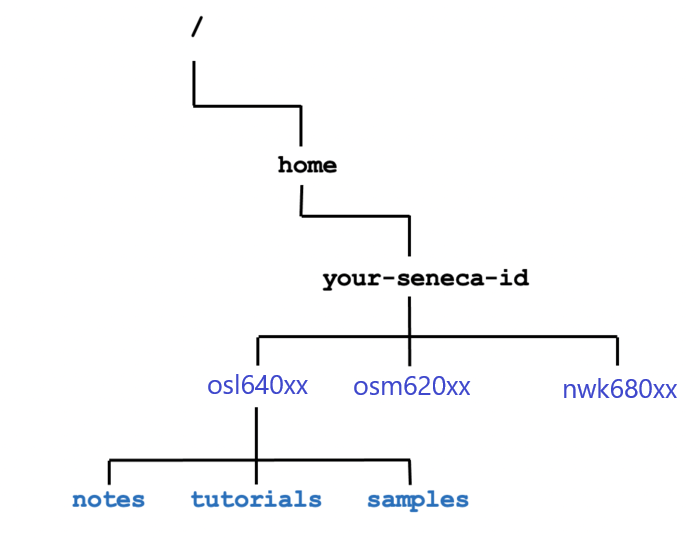
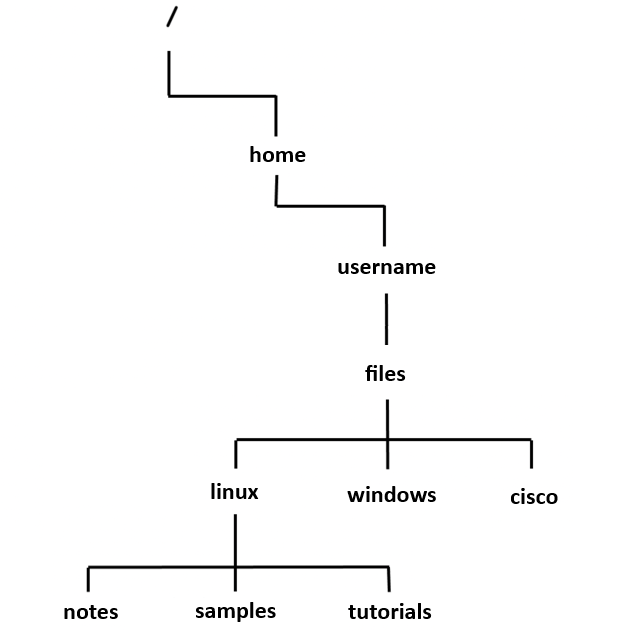
Lab 2: Changed directory structure. Instructions and check scripts need to be updated still.

diff --git a/lab2.md b/lab2.md
@@ -147,19 +147,19 @@ You will be creating the following **directory structure** within your home dire
 
 ![Directory Structure 3](/img/1_-_700px-Directory-structure-3.png)
 
-**Tree Diagram** of Directory Structure to Create in your **Home** Directory (displayed in blue text).
+**Tree Diagram** of Directory Structure to Create in your **Home** Directory.
 
 **Perform the Following Steps:**
 
-**NOTE:** For several of the following commands, you will be using **your Seneca username** to replace the text:"**your-seneca-id**" in a pathname.
+**NOTE:** For several of the following commands, you will be using **your username** to replace the text:"**yourusername**" in a pathname.
 
-For example, if your Seneca user ID was **mkhan** then you would display the pathname _/home/your-seneca-id_ as: **/home/mkhan**
+For example, if your username was **mkhan** then you would display the pathname _/home/yourusername_ as: **/home/mkhan**
 
 1. Confirm that you are logged into your Ubuntu virtual machine and have the **Terminal** open.
 2. Issue the following Linux command:
 
 ```bash
-mkdir /home/your-seneca-id/osl640xx
+mkdir /home/yourusername/files
 ```
 
 - (remember: use your Seneca username instead of "your-seneca-id")
@@ -168,7 +168,7 @@ mkdir /home/your-seneca-id/osl640xx
 4. Issue the following Linux command:
 
 ```bash
-ls /home/your-seneca-id/osl640xx
+ls /home/yourusername/files
 ```
 
 - There are no contents that are contained in this newly-created directory; therefore, no contents appear. A useful option **-d** can be used to confirm that the actual directory has been created as opposed to viewing the contents of the directory.
@@ -176,7 +176,7 @@ ls /home/your-seneca-id/osl640xx
 5. Issue the following Linux command:
 
 ```bash
-ls -d /home/your-seneca-id/osl640xx
+ls -d /home/yourusername/files
 ```
 
 - You should now see just the directory listed. You can also combine the **-d** and **-l** options to provide more detail regarding the newly-created directory.
@@ -184,28 +184,25 @@ ls -d /home/your-seneca-id/osl640xx
 6. Issue the following Linux command:
 
 ```bash
-ls -d -l /home/your-seneca-id/osl640xx
+ls -d -l /home/yourusername/files
 ```
 
-- How can you confirm from the output of this command that the file osl640xx is a directory?
+- How can you confirm from the output of this command that the file linux is a directory?
 
 7. Issue the following Linux command:
 
 ```bash
-ls -ld /home/your-seneca-id/osl640xx
+ls -ld /home/yourusername/files
 ```
 
 - Is the output from this command the same was the output from the previous command?
 - If so, what does this say about how to use multiple options for Linux commands?
 
-![Create Confirm](/img/2-create-confirm.png)
 
-- **Creating** and **Confirming** the Creation of a Directory.
-
-8. Issue the following Linux command to create the **osm620xx** and **nwk680xx** directories:
+8. Issue the following Linux command to create the **linux**, **windows** and **cisco** directories:
 
 ```bash
-mkdir /home/your-seneca-id/osm620xx /home/your-seneca-id/nwk680xx
+mkdir /home/yourusername/files/linux /home/yourusername/files/windows /home/yourusername/files/cisco
 ```
 
 - **NOTE:** You can create multiple directories by issuing the **mkdir** command with multiple arguments.
@@ -213,18 +210,18 @@ mkdir /home/your-seneca-id/osm620xx /home/your-seneca-id/nwk680xx
 9. Issue the following Linux command to confirm that those directories have been created:
 
 ```bash
-ls -ld /home/your-seneca-id/osm620xx /home/your-seneca-id/nwk680xx
+ls -ld /home/yourusername/files/windows /home/yourusername/files/cisco
 ```
 
 - **Using a FULL pathname starting from the root directory (i.e. /) requires is a LOT of typing!. Since we are already located in our home directory, we don't have to start from the root directory. This is called a "relative" pathname.**
 
-10. We will now create the subdirectories that are contained in the **osl640xx** directory. Issue the following Linux command to move to the **osl640xx** directory using a **relative** pathname:
+10. We will now create the subdirectories that are contained in the **linux** directory. Issue the following Linux command to move to the **linux** directory using a **relative** pathname:
 
 ```bash
-cd osl640xx
+cd files/linux
 ```
 
-11. Issue a Linux command to confirm that your current location is in the _osl640xx_ directory. You should know how to issue this command from a previous lab.
+11. Issue a Linux command to confirm that your current location is in the _linux_ directory. You should know how to issue this command from a previous lab.
 12. Issue the following Linux command to create the directories called **notes**, **tutorials** and **samples**:
 
 ```bash
@@ -234,8 +231,7 @@ mkdir notes tutorials samples
 13. Issue a Linux command to confirm that those directories have been created. (you should already know how to do this).
 
     - There are better ways to create the same directory structure without using the **cd** command.
-    - Issuing the **cd** command **prior** to issuing other commands indicates to others that you are a novice or "**newbie**".
-    - You can actually **lose marks** on quizzes or tests if you issue multiple Linux commands to performed tasks that can be performed using a single Linux command with **pathnames**.
+    - Issuing the **cd** command **prior** to issuing other commands adds additional, unnecessary steps.
 
 14. Issue the following Linux command to return to your home directory:
 
@@ -250,14 +246,14 @@ cd
 16. Issue the following Linux command to remove all of the directories that you have created:
 
 ```bash
-rm -r osl640xx osm620xx nwk680xx
+rm -r files/linux files/windows files/cisco
 ```
 
-17. Issue a Linux command to confirm that the **osl640xx**, **osm620xx** and **nwk680xx** directories have been removed.
+17. Issue a Linux command to confirm that the **linux**, **windows** and **cisco** directories have been removed.
 18. Issue the following single Linux command to create the entire directory structure:
 
 ```bash
-mkdir -p osl640xx/notes osl640xx/tutorials osl640xx/samples osm620xx nwk680xx
+mkdir -p files/linux/notes files/linux/tutorials files/linux/samples files/windows files/cisco
 ```
 
 - **NOTE:** The **-p** option allows "parent" directories to be automatically created first to then create their subdirectories.
@@ -265,7 +261,7 @@ mkdir -p osl640xx/notes osl640xx/tutorials osl640xx/samples osm620xx nwk680xx
 19. Issue the following Linux command to confirm that all of the directories have been created:
 
 ```bash
-ls -ld osl640xx/ osl640xx/notes osl640xx/tutorials osl640xx/samples osm620xx nwk680xx
+ls -ld files/linux/ files/linux/notes files/linux/tutorials files/linux/samples files/windows files/cisco
 ```
 
 **Running a Shell Script to Check your Work**
@@ -320,7 +316,8 @@ Output of the tree command to display directory structure.
 
 ![Tree -lr output](/img/4-lsr.png)
 
-2. Issue the following Linux command:
+3. Issue a command to change into the **/home/yourusername/files** directory.
+1. Issue the following Linux command:
 
 ```bash
 ls -lR
@@ -328,36 +325,36 @@ ls -lR
 
 - What directories do you see?
 
-3. Issue the following Linux command:
+5. Issue the following Linux command:
 
 ```bash
-ls -lR osl640xx
+ls -lR linux
 ```
 
 - Note the differences between both of these commands (i.e. using and not using a pathname).
 - You can copy and move entire directories (and their contents) to other directories.
 
-4. Issue the following Linux command:
+6. Issue the following Linux command:
 
 ```bash
-cp -R osl640xx nwk680xx
+cp -R linux cisco
 ```
 
-5. Issue the following Linux command to display the directory structure of your home directory to confirm you copied the osl640xx directory:
+5. Issue the following Linux command to display the directory structure of your home directory to confirm you copied the linux directory:
 
 ```bash
 tree
 ```
 
-- Output of the **tree** command to confirm copy of **osl640xx** directory (and contents) to the **xyz100xx** directory.
+- Output of the **tree** command to confirm copy of **linux** directory (and contents) to the **xyz100xx** directory.
 
 6. Issue the following Linux command:
 
 ```bash
-mv osm620xx nwk680xx/osl640xx/tutorials/osm620xx
+mv windows cisco/linux/tutorials/windows
 ```
 
-7. Issue the following Linux command to display the directory structure of your home directory to confirm you moved the osm620xx directory:
+7. Issue the following Linux command to display the directory structure of your home directory to confirm you moved the windows directory:
 
 ```bash
 tree
@@ -387,34 +384,34 @@ In this investigation, we will learn how to **safely remove** directories and th
 2. Issue the following Linux command to remove the empty directory called **tutorials**:
 
 ```bash
-rmdir osl640xx/tutorials
+rmdir linux/tutorials
 ```
 
 3. Issue a command to confirm that you removed the **tutorials** directory.
-4. Issue the following Linux command to remove the empty directory called **osl640xx**:
+4. Issue the following Linux command to remove the empty directory called **linux**:
 
 ```bash
-rmdir osl640xx
+rmdir linux
 ```
 
-- NOTE: You should get an **error message**, since the **osl640xx** directory is **NOT** empty.
+- NOTE: You should get an **error message**, since the **linux** directory is **NOT** empty.
 - To remove non-empty directories, you can use the **rm -r** command.
 - The **-r** option stands for recursive, which can travel down the directory paths and their contents.
 
-5. Issue the following Linux command to remove the **osl640xx** directory and its contents:
+5. Issue the following Linux command to remove the **linux** directory and its contents:
 
 ```bash
-rm -r osl640xx
+rm -r linux
 ```
 
-6. Issue the **tree** command to confirm that the osl640xx directory (contained in your home directory) and its contents have been removed.
+6. Issue the **tree** command to confirm that the linux directory (contained in your home directory) and its contents have been removed.
 
 - **NOTE:** To safely remove non-empty directories, you can add the _-i_ option which will prompt the user if they wish to remove contents as it your travel recursively down a directory to remove directories and their contents.
 
 7. Issue the following Linux command (entering "y" when prompted):
 
 ```bash
-rm -ri nwk680xx
+rm -ri cisco
 ```
 
 - **NOTE:** You should have removed all directories that you have created.

diff --git a/README.md b/README.md
@@ -9,7 +9,7 @@
 - Scroll to the bottom and click **Create repository**.
 
 ## Configuring GitHub Pages
-- In your **GitHub Repository** click on **Settings*
+- In your **GitHub Repository** click on **Settings**
 - Under **Branch** select **main**, and click **Save**
 - Follow the steps outlined in **Initial setup** below.
 - If you are using a **Custom domain** insert it in the text box and click **Save**.
